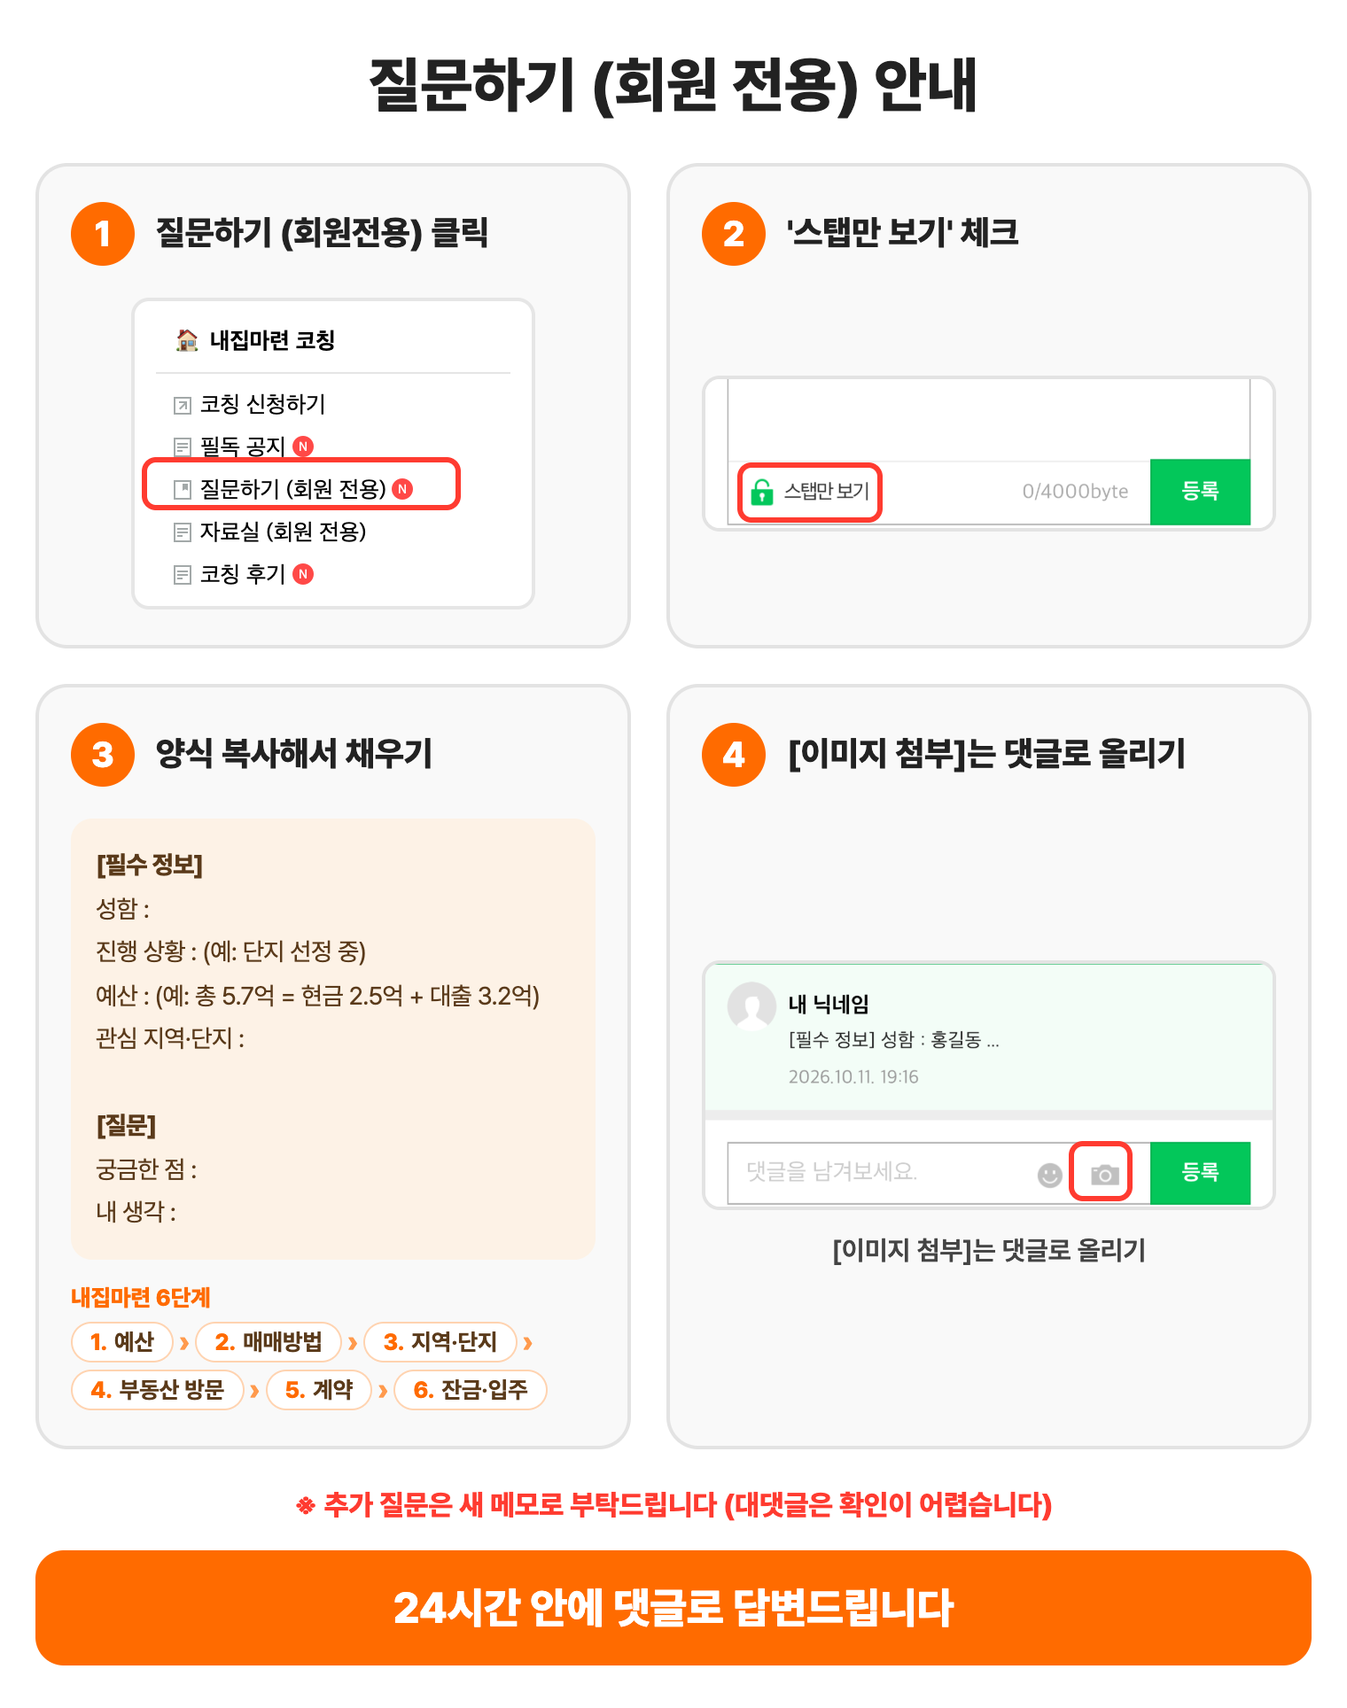
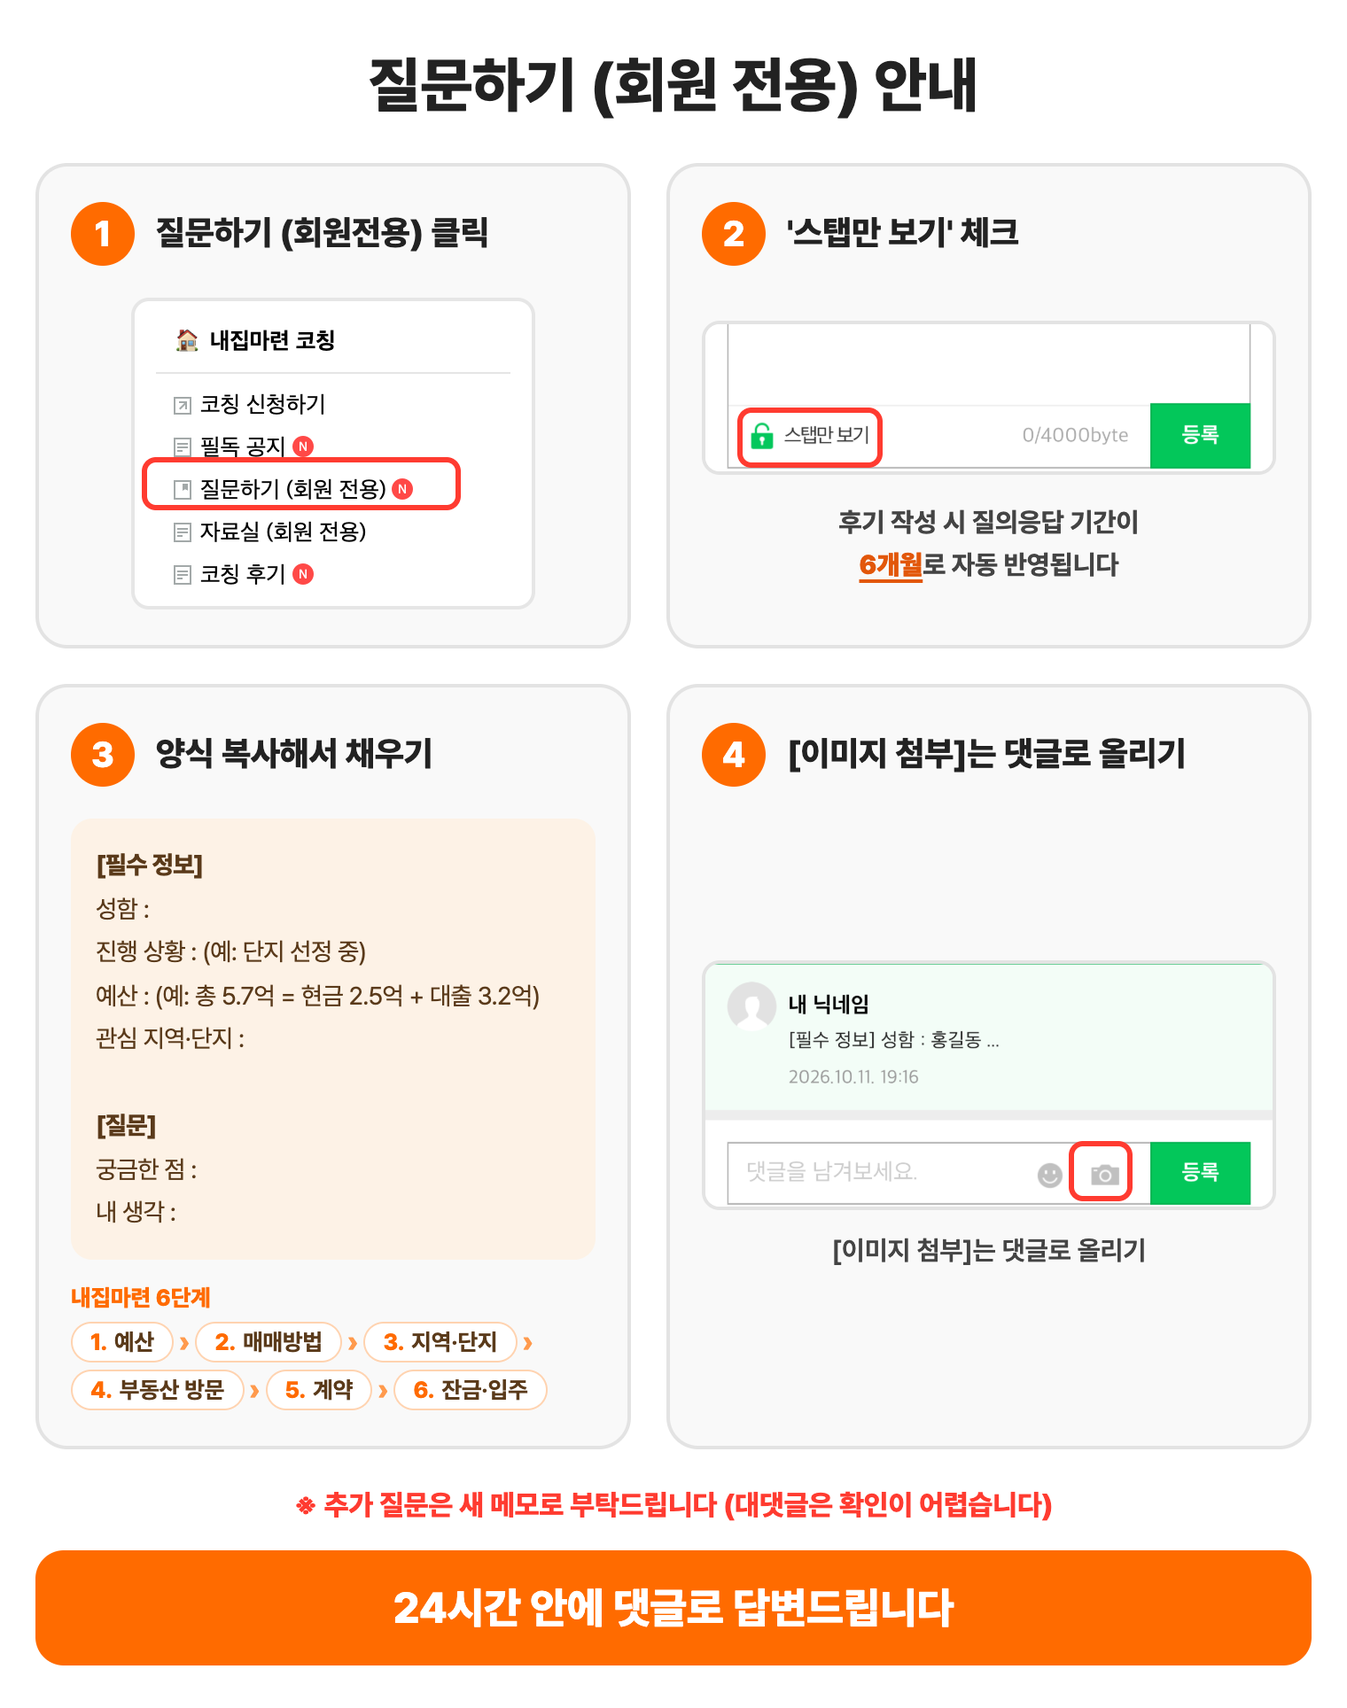
fix: 랜딩 결제·질의응답 문구, 강의 수강정보 칸, 카페 질문하기 안내 그림

Changed region(s): [[0.5257, 0.2178, 0.9276, 0.3423]]

diff --git a/homepage/coaching-all-v3-imweb-copy.html b/homepage/coaching-all-v3-imweb-copy.html
@@ -2238,7 +2238,7 @@ div[data-widget-type="code"] :where(.font-display, .font-display *, .hero-word s
 </label>
 </div>
 <div class="space-y-1.5 text-sm text-gray-500">
-<p class="text-gray-700 font-medium"> * 카드결제, 현금영수증 가능합니다</p>
+<p class="text-gray-700 font-medium"> * 카드결제, 현금영수증 전부 가능합니다</p>
 </div>
 </div>
 <!-- 5. 개인정보 수집 동의 -->
@@ -2276,7 +2276,7 @@ div[data-widget-type="code"] :where(.font-display, .font-display *, .hero-word s
 <details class="group border border-gray-200 rounded-xl"><summary class="flex items-center justify-between px-6 py-5 cursor-pointer hover:bg-gray-50 transition-colors rounded-xl"><span class="font-bold word-keep">Q. 대출 관련해서도 도움받을 수 있나요?</span><span class="text-2xl text-gray-500 font-bold leading-none group-open:hidden">+</span><span class="text-2xl text-brand-orange font-bold leading-none hidden group-open:inline">−</span></summary><div class="px-6 pb-5 text-gray-600 text-sm leading-relaxed word-keep">네. 정책대출과 일반주택담보대출, 신용대출 등 <strong>어떤 조합이 유리한지</strong> 함께 정리합니다.<br/><br/>상황에 맞게 <strong>유리한 금리·한도</strong>를 받는 방법을 알려드립니다.</div></details>
 <details class="group border border-gray-200 rounded-xl"><summary class="flex items-center justify-between px-6 py-5 cursor-pointer hover:bg-gray-50 transition-colors rounded-xl"><span class="font-bold word-keep">Q. 갈아타기나 재테크 방법도 알려주시나요?</span><span class="text-2xl text-gray-500 font-bold leading-none group-open:hidden">+</span><span class="text-2xl text-brand-orange font-bold leading-none hidden group-open:inline">−</span></summary><div class="px-6 pb-5 text-gray-600 text-sm leading-relaxed word-keep">물론입니다. 매수 단계부터 갈아타기를 고려해서 추천드리기 때문에, <strong>구체적인 재테크 로드맵</strong>을 그려드립니다. 첫 단추를 어떻게 끼우느냐에 따라 <strong>수억 이상 차이</strong>가 날 수 있습니다.</div></details>
 <details class="group border border-gray-200 rounded-xl"><summary class="flex items-center justify-between px-6 py-5 cursor-pointer hover:bg-gray-50 transition-colors rounded-xl"><span class="font-bold word-keep">Q. 상담은 우재님이 직접 해주시나요?</span><span class="text-2xl text-gray-500 font-bold leading-none group-open:hidden">+</span><span class="text-2xl text-brand-orange font-bold leading-none hidden group-open:inline">−</span></summary><div class="px-6 pb-5 text-gray-600 text-sm leading-relaxed word-keep">당연히 <strong>제가 직접 진행</strong>합니다. 상담 이후 질문도 직접 답변드립니다.</div></details>
-<details class="group border border-gray-200 rounded-xl"><summary class="flex items-center justify-between px-6 py-5 cursor-pointer hover:bg-gray-50 transition-colors rounded-xl"><span class="font-bold word-keep">Q. 코칭 이후 질문은 어떻게 하나요?</span><span class="text-2xl text-gray-500 font-bold leading-none group-open:hidden">+</span><span class="text-2xl text-brand-orange font-bold leading-none hidden group-open:inline">−</span></summary><div class="px-6 pb-5 text-gray-600 text-sm leading-relaxed word-keep">네이버 카페에 비밀글로 간단히 남겨 주시면, <strong>24시간 안에 직접 답변</strong>드립니다.<br/>질문과 답변이 남아 있어 다시 보기 편하고, 회원 전용 자료실도 이용하실 수 있습니다.</div></details>
+<details class="group border border-gray-200 rounded-xl"><summary class="flex items-center justify-between px-6 py-5 cursor-pointer hover:bg-gray-50 transition-colors rounded-xl"><span class="font-bold word-keep">Q. 코칭 이후 질문은 어떻게 하나요?</span><span class="text-2xl text-gray-500 font-bold leading-none group-open:hidden">+</span><span class="text-2xl text-brand-orange font-bold leading-none hidden group-open:inline">−</span></summary><div class="px-6 pb-5 text-gray-600 text-sm leading-relaxed word-keep">네이버 카페에 비밀글로 간단히 남겨 주시면, <strong>24시간 안에 직접 답변</strong>드립니다.<br/>질문과 답변을 다시 보기 편하고, 회원 전용 자료실도 이용하실 수 있습니다.</div></details>
 <details class="group border border-gray-200 rounded-xl"><summary class="flex items-center justify-between px-6 py-5 cursor-pointer hover:bg-gray-50 transition-colors rounded-xl"><span class="font-bold word-keep">Q. 신청 전에 궁금한 점은 어디로 문의하나요?</span><span class="text-2xl text-gray-500 font-bold leading-none group-open:hidden">+</span><span class="text-2xl text-brand-orange font-bold leading-none hidden group-open:inline">−</span></summary><div class="px-6 pb-5 text-gray-600 text-sm leading-relaxed word-keep"><a class="text-[#0055FF] font-bold underline" href="http://pf.kakao.com/_mcxnjX/friend" rel="noopener" target="_blank">카카오 채널 '우리동네재테크'</a>로 문의주세요.</div></details>
 </div>
 </div>

diff --git a/homepage/coaching-all-v3.html b/homepage/coaching-all-v3.html
@@ -2308,7 +2308,7 @@
 	            </label>
 	          </div>
 	          <div class="space-y-1.5 text-sm text-gray-500">
-	            <p class="text-gray-700 font-medium">&nbsp;* 카드결제, 현금영수증 가능합니다</p>
+	            <p class="text-gray-700 font-medium">&nbsp;* 카드결제, 현금영수증 전부 가능합니다</p>
 	          </div>
 	        </div>
 
@@ -2349,7 +2349,7 @@
         <details class="group border border-gray-200 rounded-xl"><summary class="flex items-center justify-between px-6 py-5 cursor-pointer hover:bg-gray-50 transition-colors rounded-xl"><span class="font-bold word-keep">Q. 대출 관련해서도 도움받을 수 있나요?</span><span class="text-2xl text-gray-500 font-bold leading-none group-open:hidden">+</span><span class="text-2xl text-brand-orange font-bold leading-none hidden group-open:inline">−</span></summary><div class="px-6 pb-5 text-gray-600 text-sm leading-relaxed word-keep">네. 정책대출과 일반주택담보대출, 신용대출 등 <strong>어떤 조합이 유리한지</strong> 함께 정리합니다.<br><br>상황에 맞게 <strong>유리한 금리·한도</strong>를 받는 방법을 알려드립니다.</div></details>
         <details class="group border border-gray-200 rounded-xl"><summary class="flex items-center justify-between px-6 py-5 cursor-pointer hover:bg-gray-50 transition-colors rounded-xl"><span class="font-bold word-keep">Q. 갈아타기나 재테크 방법도 알려주시나요?</span><span class="text-2xl text-gray-500 font-bold leading-none group-open:hidden">+</span><span class="text-2xl text-brand-orange font-bold leading-none hidden group-open:inline">−</span></summary><div class="px-6 pb-5 text-gray-600 text-sm leading-relaxed word-keep">물론입니다. 매수 단계부터 갈아타기를 고려해서 추천드리기 때문에, <strong>구체적인 재테크 로드맵</strong>을 그려드립니다. 첫 단추를 어떻게 끼우느냐에 따라 <strong>수억 이상 차이</strong>가 날 수 있습니다.</div></details>
         <details class="group border border-gray-200 rounded-xl"><summary class="flex items-center justify-between px-6 py-5 cursor-pointer hover:bg-gray-50 transition-colors rounded-xl"><span class="font-bold word-keep">Q. 상담은 우재님이 직접 해주시나요?</span><span class="text-2xl text-gray-500 font-bold leading-none group-open:hidden">+</span><span class="text-2xl text-brand-orange font-bold leading-none hidden group-open:inline">−</span></summary><div class="px-6 pb-5 text-gray-600 text-sm leading-relaxed word-keep">당연히 <strong>제가 직접 진행</strong>합니다. 상담 이후 질문도 직접 답변드립니다.</div></details>
-        <details class="group border border-gray-200 rounded-xl"><summary class="flex items-center justify-between px-6 py-5 cursor-pointer hover:bg-gray-50 transition-colors rounded-xl"><span class="font-bold word-keep">Q. 코칭 이후 질문은 어떻게 하나요?</span><span class="text-2xl text-gray-500 font-bold leading-none group-open:hidden">+</span><span class="text-2xl text-brand-orange font-bold leading-none hidden group-open:inline">−</span></summary><div class="px-6 pb-5 text-gray-600 text-sm leading-relaxed word-keep">네이버 카페에 비밀글로 간단히 남겨 주시면, <strong>24시간 안에 직접 답변</strong>드립니다.<br>질문과 답변이 남아 있어 다시 보기 편하고, 회원 전용 자료실도 이용하실 수 있습니다.</div></details>
+        <details class="group border border-gray-200 rounded-xl"><summary class="flex items-center justify-between px-6 py-5 cursor-pointer hover:bg-gray-50 transition-colors rounded-xl"><span class="font-bold word-keep">Q. 코칭 이후 질문은 어떻게 하나요?</span><span class="text-2xl text-gray-500 font-bold leading-none group-open:hidden">+</span><span class="text-2xl text-brand-orange font-bold leading-none hidden group-open:inline">−</span></summary><div class="px-6 pb-5 text-gray-600 text-sm leading-relaxed word-keep">네이버 카페에 비밀글로 간단히 남겨 주시면, <strong>24시간 안에 직접 답변</strong>드립니다.<br>질문과 답변을 다시 보기 편하고, 회원 전용 자료실도 이용하실 수 있습니다.</div></details>
         <details class="group border border-gray-200 rounded-xl"><summary class="flex items-center justify-between px-6 py-5 cursor-pointer hover:bg-gray-50 transition-colors rounded-xl"><span class="font-bold word-keep">Q. 신청 전에 궁금한 점은 어디로 문의하나요?</span><span class="text-2xl text-gray-500 font-bold leading-none group-open:hidden">+</span><span class="text-2xl text-brand-orange font-bold leading-none hidden group-open:inline">−</span></summary><div class="px-6 pb-5 text-gray-600 text-sm leading-relaxed word-keep"><a href="http://pf.kakao.com/_mcxnjX/friend" target="_blank" rel="noopener" class="text-[#0055FF] font-bold underline">카카오 채널 '우리동네재테크'</a>로 문의주세요.</div></details>
       </div>
     </div>

diff --git a/homepage/coaching-all-v3-imweb.html b/homepage/coaching-all-v3-imweb.html
@@ -1073,7 +1073,7 @@
 </label>
 </div>
 <div class="space-y-1.5 text-sm text-gray-500">
-<p class="text-gray-700 font-medium"> * 카드결제, 현금영수증 가능합니다</p>
+<p class="text-gray-700 font-medium"> * 카드결제, 현금영수증 전부 가능합니다</p>
 </div>
 </div>
 <!-- 5. 개인정보 수집 동의 -->
@@ -1111,7 +1111,7 @@
 <details class="group border border-gray-200 rounded-xl"><summary class="flex items-center justify-between px-6 py-5 cursor-pointer hover:bg-gray-50 transition-colors rounded-xl"><span class="font-bold word-keep">Q. 대출 관련해서도 도움받을 수 있나요?</span><span class="text-2xl text-gray-500 font-bold leading-none group-open:hidden">+</span><span class="text-2xl text-brand-orange font-bold leading-none hidden group-open:inline">−</span></summary><div class="px-6 pb-5 text-gray-600 text-sm leading-relaxed word-keep">네. 정책대출과 일반주택담보대출, 신용대출 등 <strong>어떤 조합이 유리한지</strong> 함께 정리합니다.<br/><br/>상황에 맞게 <strong>유리한 금리·한도</strong>를 받는 방법을 알려드립니다.</div></details>
 <details class="group border border-gray-200 rounded-xl"><summary class="flex items-center justify-between px-6 py-5 cursor-pointer hover:bg-gray-50 transition-colors rounded-xl"><span class="font-bold word-keep">Q. 갈아타기나 재테크 방법도 알려주시나요?</span><span class="text-2xl text-gray-500 font-bold leading-none group-open:hidden">+</span><span class="text-2xl text-brand-orange font-bold leading-none hidden group-open:inline">−</span></summary><div class="px-6 pb-5 text-gray-600 text-sm leading-relaxed word-keep">물론입니다. 매수 단계부터 갈아타기를 고려해서 추천드리기 때문에, <strong>구체적인 재테크 로드맵</strong>을 그려드립니다. 첫 단추를 어떻게 끼우느냐에 따라 <strong>수억 이상 차이</strong>가 날 수 있습니다.</div></details>
 <details class="group border border-gray-200 rounded-xl"><summary class="flex items-center justify-between px-6 py-5 cursor-pointer hover:bg-gray-50 transition-colors rounded-xl"><span class="font-bold word-keep">Q. 상담은 우재님이 직접 해주시나요?</span><span class="text-2xl text-gray-500 font-bold leading-none group-open:hidden">+</span><span class="text-2xl text-brand-orange font-bold leading-none hidden group-open:inline">−</span></summary><div class="px-6 pb-5 text-gray-600 text-sm leading-relaxed word-keep">당연히 <strong>제가 직접 진행</strong>합니다. 상담 이후 질문도 직접 답변드립니다.</div></details>
-<details class="group border border-gray-200 rounded-xl"><summary class="flex items-center justify-between px-6 py-5 cursor-pointer hover:bg-gray-50 transition-colors rounded-xl"><span class="font-bold word-keep">Q. 코칭 이후 질문은 어떻게 하나요?</span><span class="text-2xl text-gray-500 font-bold leading-none group-open:hidden">+</span><span class="text-2xl text-brand-orange font-bold leading-none hidden group-open:inline">−</span></summary><div class="px-6 pb-5 text-gray-600 text-sm leading-relaxed word-keep">네이버 카페에 비밀글로 간단히 남겨 주시면, <strong>24시간 안에 직접 답변</strong>드립니다.<br/>질문과 답변이 남아 있어 다시 보기 편하고, 회원 전용 자료실도 이용하실 수 있습니다.</div></details>
+<details class="group border border-gray-200 rounded-xl"><summary class="flex items-center justify-between px-6 py-5 cursor-pointer hover:bg-gray-50 transition-colors rounded-xl"><span class="font-bold word-keep">Q. 코칭 이후 질문은 어떻게 하나요?</span><span class="text-2xl text-gray-500 font-bold leading-none group-open:hidden">+</span><span class="text-2xl text-brand-orange font-bold leading-none hidden group-open:inline">−</span></summary><div class="px-6 pb-5 text-gray-600 text-sm leading-relaxed word-keep">네이버 카페에 비밀글로 간단히 남겨 주시면, <strong>24시간 안에 직접 답변</strong>드립니다.<br/>질문과 답변을 다시 보기 편하고, 회원 전용 자료실도 이용하실 수 있습니다.</div></details>
 <details class="group border border-gray-200 rounded-xl"><summary class="flex items-center justify-between px-6 py-5 cursor-pointer hover:bg-gray-50 transition-colors rounded-xl"><span class="font-bold word-keep">Q. 신청 전에 궁금한 점은 어디로 문의하나요?</span><span class="text-2xl text-gray-500 font-bold leading-none group-open:hidden">+</span><span class="text-2xl text-brand-orange font-bold leading-none hidden group-open:inline">−</span></summary><div class="px-6 pb-5 text-gray-600 text-sm leading-relaxed word-keep"><a class="text-[#0055FF] font-bold underline" href="http://pf.kakao.com/_mcxnjX/friend" rel="noopener" target="_blank">카카오 채널 '우리동네재테크'</a>로 문의주세요.</div></details>
 </div>
 </div>

diff --git a/cafe/guide_question.html b/cafe/guide_question.html
@@ -36,6 +36,9 @@ h1{text-align:center;font-size:34px;font-weight:800;margin-bottom:24px}
 .chips span{display:inline-flex;align-items:center;gap:4px;background:#fff;border:1.5px solid #ffd3b0;border-radius:20px;padding:3px 10px;font-size:13px;font-weight:700;color:#5a3a1a;white-space:nowrap}
 .chips i{font-style:normal;color:#ff6b00;font-weight:800;font-size:13px}
 .chips em{font-style:normal;color:#ff9a4d;font-weight:800}
+.note2{text-align:center;margin-top:16px;font-size:15px;font-weight:700;color:#444;line-height:1.55}
+.note2 b{color:#E2570A}
+.note2 u{text-decoration-thickness:2px;text-underline-offset:3px}
 .warn{text-align:center;color:#ff3b30;font-weight:800;font-size:16px;margin:22px 0 16px}
 .bar{background:#ff6b00;color:#fff;text-align:center;font-size:24px;font-weight:800;border-radius:16px;padding:18px}
 </style></head><body>
@@ -44,7 +47,7 @@ h1{text-align:center;font-size:34px;font-weight:800;margin-bottom:24px}
  <div class="card"><div class="hd"><div class="num">1</div><div class="tt">질문하기 (회원전용) 클릭</div></div>
   <div class="body"><div class="menu"><img src="menu_coach.png"><div class="hl" style="top:88px"></div></div></div></div>
  <div class="card"><div class="hd"><div class="num">2</div><div class="tt">'스탭만 보기' 체크</div></div>
-  <div class="body"><div class="shot"><img src="m_staff_small.png"><div class="hl2" style="left:18px;top:47px;width:82px;height:34px"></div></div></div></div>
+  <div class="body"><div class="shot"><img src="m_staff_small.png"><div class="hl2" style="left:18px;top:47px;width:82px;height:34px"></div></div><div class="note2">후기 작성 시 질의응답 기간이<br><b><u>6개월</u></b>로 자동 반영됩니다</div></div></div>
  <div class="card"><div class="hd"><div class="num">3</div><div class="tt">양식 복사해서 채우기</div></div>
   <div class="body"><div class="form"><b>[필수 정보]</b><br>성함 :<br>진행 상황 : (예: 단지 선정 중)<br>예산 : (예: 총 5.7억 = 현금 2.5억 + 대출 3.2억)<br>관심 지역·단지 :<br><br><b>[질문]</b><br>궁금한 점 :<br>내 생각 :</div><div class="stp"><div class="stp-t">내집마련 6단계</div><div class="chips"><span><i>1.</i>예산</span><em>›</em><span><i>2.</i>매매방법</span><em>›</em><span><i>3.</i>지역·단지</span><em>›</em><span><i>4.</i>부동산 방문</span><em>›</em><span><i>5.</i>계약</span><em>›</em><span><i>6.</i>잔금·입주</span></div></div></div></div>
  <div class="card"><div class="hd"><div class="num">4</div><div class="tt">[이미지 첨부]는 댓글로 올리기</div></div>

diff --git a/homepage/lecture-bookclub.html b/homepage/lecture-bookclub.html
@@ -45,7 +45,7 @@
 <!-- head-code.html 공유 (Tailwind/Pretendard/G마켓산스/Iconify) -->
 
 <!-- ===== 수강 정보 ===== -->
-<div class="px-0 pt-8 pb-4" style="max-width:100%; margin:0; text-align:left;">
+<div class="max-w-4xl mx-auto px-6 sm:px-8 pt-8 pb-4 text-left">
   <h3 class="text-xl font-bold text-brand-dark mb-2">수강 정보</h3>
   <p class="text-base text-gray-500 word-keep">수강 기간 &nbsp; <span class="text-brand-dark font-bold underline underline-offset-4">구매일로부터 최대 90일</span></p>
   <p class="text-base text-gray-500 word-keep mt-1">진행 방식 &nbsp; <span class="text-brand-dark font-bold">월 1회(온라인) · 소규모 그룹</span></p>

diff --git a/homepage/lecture-allinone.html b/homepage/lecture-allinone.html
@@ -45,7 +45,7 @@
 <!-- head-code.html 공유 (Tailwind/Pretendard/G마켓산스/Iconify) -->
 
 <!-- ===== 수강 정보 ===== -->
-<div class="px-0 pt-8 pb-4" style="max-width:100%; margin:0; text-align:left;">
+<div class="max-w-4xl mx-auto px-6 sm:px-8 pt-8 pb-4 text-left">
   <h3 class="text-xl font-bold text-brand-dark mb-2">수강 정보</h3>
   <p class="text-base text-gray-500 word-keep">수강 기간 &nbsp; <span class="text-brand-dark font-bold underline underline-offset-4">구매일로부터 최대 90일</span></p>
 </div>

diff --git a/site-config.js b/site-config.js
@@ -122,7 +122,7 @@
             hubVisible: true,
             groupLabel: '코칭',
             imwebCode: 'homepage/coaching-all-v3-imweb-copy.html',
-            dateSuffix: '3',
+            dateSuffix: '4',
             imwebDate: '2026-10-12'
           },
           {
